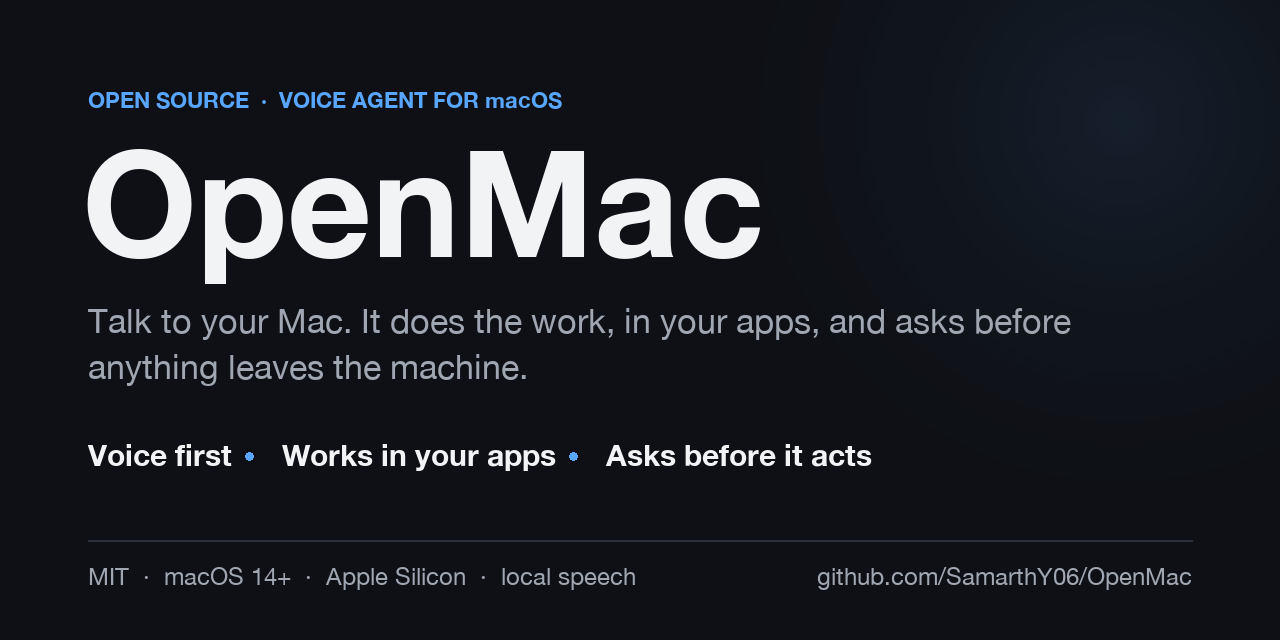
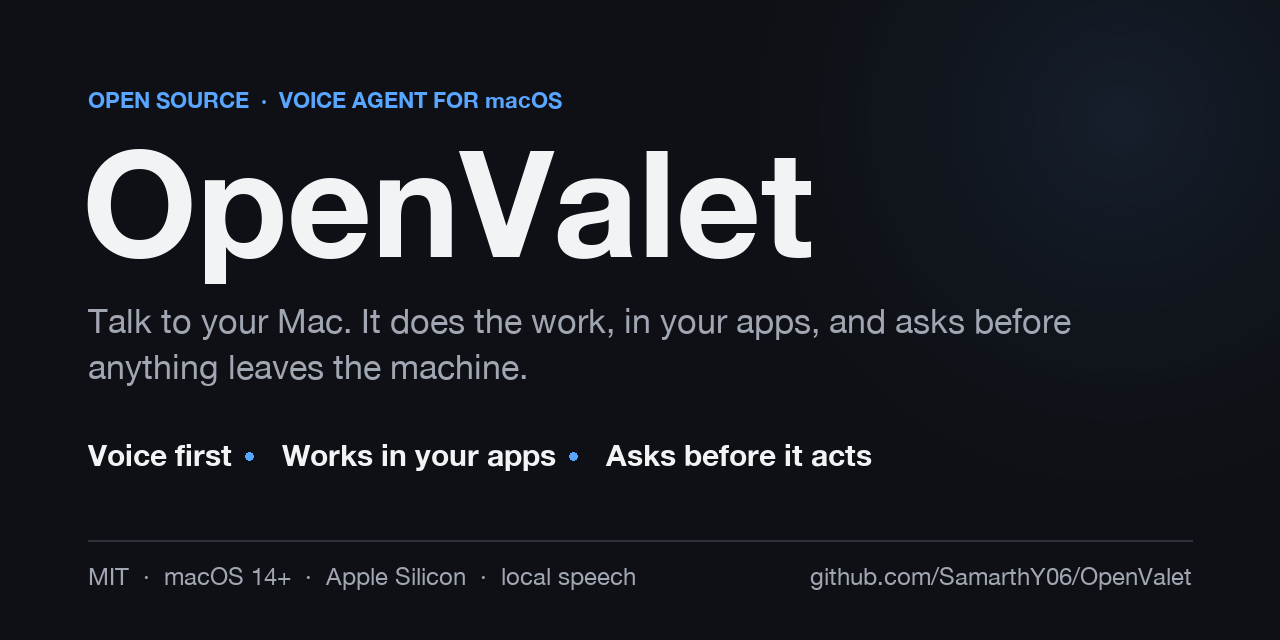
Rename to OpenValet
One agent across channels, so the name no longer says Mac. Repo, app
folder, installer paths and env vars, Go module path, docs and social
preview follow; bundle id, services and data paths are unchanged, and
the installer retires OpenMac.app and Mac.app.

Changed region(s): [[0.3438, 0.2188, 0.6562, 0.4062], [0.625, 0.875, 0.9375, 0.9375]]

diff --git a/app/Sources/MacApp/Onboarding.swift b/app/Sources/MacApp/Onboarding.swift
@@ -216,7 +216,7 @@ struct OnboardingView: View {
     /// Shown when the menu bar icon is hidden by the notch / menu-bar overflow (Builder C sets it).
     private var hiddenHint: some View {
         Label {
-            Text("Mac’s menu bar icon is hidden by the notch. Close a few menu bar apps, or open this window any time by double-clicking OpenMac.app.")
+            Text("Mac’s menu bar icon is hidden by the notch. Close a few menu bar apps, or open this window any time by double-clicking OpenValet.app.")
                 .font(.callout).fixedSize(horizontal: false, vertical: true)
         } icon: {
             Image(systemName: "eye.slash").foregroundStyle(.orange).accessibilityHidden(true)

diff --git a/daemon/tests/test_services_script.py b/daemon/tests/test_services_script.py
@@ -167,7 +167,7 @@ def test_a_failed_bridge_build_switches_nothing(w: World) -> None:
 
 
 def _fake_release(w: World, release: str, body: str, *, corrupt: bool = False) -> str:
-    """A file:// stand-in for github.com/<owner>/OpenMac/releases/download/v<release>/."""
+    """A file:// stand-in for github.com/<owner>/OpenValet/releases/download/v<release>/."""
     d = w.root / "rel" / f"v{release}"
     d.mkdir(parents=True)
     asset = d / "wa-bridge-darwin-arm64"
@@ -183,7 +183,7 @@ def _fake_release(w: World, release: str, body: str, *, corrupt: bool = False) -
 def test_without_go_the_bridge_is_downloaded_for_the_snapshots_version(w: World) -> None:
     sha = w.commit("v1", release="0.1.0")
     w.env["MAC_BRIDGE"] = "download"
-    w.env["OPENMAC_RELEASES_URL"] = _fake_release(w, "0.1.0", "#!/bin/sh\necho prebuilt 0.1.0\n")
+    w.env["OPENVALET_RELEASES_URL"] = _fake_release(w, "0.1.0", "#!/bin/sh\necho prebuilt 0.1.0\n")
     r = w.run("install")
     assert r.returncode == 0, r.stderr
     assert w.current() == sha and w.bridge() == "#!/bin/sh\necho prebuilt 0.1.0\n"
@@ -195,13 +195,13 @@ def test_a_bad_checksum_or_missing_release_switches_nothing(w: World) -> None:
     sha = w.commit("v1")
     assert w.run("install").returncode == 0  # built (MAC_BRIDGE=build)
     w.env["MAC_BRIDGE"] = "download"
-    w.env["OPENMAC_RELEASES_URL"] = _fake_release(w, "0.2.0", "tampered\n", corrupt=True)
+    w.env["OPENVALET_RELEASES_URL"] = _fake_release(w, "0.2.0", "tampered\n", corrupt=True)
     w.commit("v2", release="0.2.0")
     r = w.run("update")
     assert r.returncode == 1 and "checksum mismatch" in r.stderr and "Install Go" in r.stderr
     assert w.current() == sha and w.snapshots() == {sha} and w.bridge() == "bridge v1\n"
     assert not any(p.name.startswith(".new.") for p in w.releases.iterdir())
-    w.env["OPENMAC_RELEASES_URL"] = "file://" + str(w.root / "nowhere")
+    w.env["OPENVALET_RELEASES_URL"] = "file://" + str(w.root / "nowhere")
     r = w.run("update")
     assert r.returncode == 1 and w.current() == sha and w.snapshots() == {sha}
 

diff --git a/daemon/src/macd/brain/mac_tools.py b/daemon/src/macd/brain/mac_tools.py
@@ -43,7 +43,7 @@ NOTHING_TO_CONFIRM = ("Nothing to confirm yet: attempt the action first; the saf
 ALREADY_PENDING = ("A confirmation is already being asked, wait for that answer; do not ask again "
                    "and do not treat this as a decline.")
 AX_HELP = ("Accessibility permission is missing. Ask the user to open System Settings > Privacy & "
-           "Security > Accessibility and turn on OpenMac, then try again.")
+           "Security > Accessibility and turn on OpenValet, then try again.")
 
 # AG10: the model writes the confirmation; over-long text is a tool error it rewrites, never a cut.
 SUMMARY_MAX_CHARS = 200
@@ -631,7 +631,7 @@ class MacTools:
         try:
             res = _run(["screencapture", "-x", "-t", "png", str(path)], 15)
             if res.returncode != 0 or not path.exists() or path.stat().st_size == 0:
-                return _err("Screenshot failed. Screen Recording permission may be missing for OpenMac.app "
+                return _err("Screenshot failed. Screen Recording permission may be missing for OpenValet.app "
                             "(System Settings > Privacy & Security > Screen Recording).")
             _run(["sips", "-Z", "1600", str(path)], 15)
             data = base64.b64encode(path.read_bytes()).decode("ascii")

diff --git a/daemon/src/macd/doctor.py b/daemon/src/macd/doctor.py
@@ -187,7 +187,7 @@ def check_mic() -> Check:
     pcm = np.concatenate(frames)
     if float(np.max(np.abs(pcm))) == 0.0:
         return Check("fail", "microphone", "all-zero input (permission denied?)",
-                     "Grant Microphone access to OpenMac.app (TCC attributes this probe to the calling process).")
+                     "Grant Microphone access to OpenValet.app (TCC attributes this probe to the calling process).")
     return Check("ok", "microphone (this terminal)", f"{len(pcm)} samples, peak {float(np.max(np.abs(pcm))):.3f}")
 
 
@@ -224,7 +224,7 @@ def daemon_status(timeout: float = 3.0) -> dict | None:  # type: ignore[type-arg
 def check_daemon() -> tuple[Check, dict | None]:  # type: ignore[type-arg]
     st = daemon_status()
     if st is None:
-        return Check("warn", "daemon", f"not reachable at {config.CONTROL_SOCK}", "Start OpenMac.app or run `macd`."), None
+        return Check("warn", "daemon", f"not reachable at {config.CONTROL_SOCK}", "Start OpenValet.app or run `macd`."), None
     return Check("ok", "daemon", f"state {st.get('state')}, up {st.get('uptime_s')}s"), st
 
 

diff --git a/docs/media/make_social_preview.py b/docs/media/make_social_preview.py
@@ -78,7 +78,7 @@ def main() -> int:
 
     # Title.
     title_f = font(148, True)
-    draw.text((margin - 6, 112), "OpenMac", font=title_f, fill=INK)
+    draw.text((margin - 6, 112), "OpenValet", font=title_f, fill=INK)
 
     # Tagline, wrapped to the text column.
     tag_f = font(34, False)
@@ -102,7 +102,7 @@ def main() -> int:
     draw.line((margin, 540, W - margin, 540), fill=RULE, width=2)
     draw.text((margin, 562), FOOTER, font=font(24, False), fill=MUTED)
     repo_f = font(24, False)
-    repo = "github.com/SamarthY06/OpenMac"
+    repo = "github.com/SamarthY06/OpenValet"
     draw.text((W - margin - draw.textlength(repo, font=repo_f), 562), repo, font=repo_f, fill=MUTED)
 
     img.save(OUT, optimize=True)

diff --git a/daemon/src/macd/cli.py b/daemon/src/macd/cli.py
@@ -46,7 +46,7 @@ class ControlClient:
             s.connect(self.path)
         except (FileNotFoundError, ConnectionRefusedError) as e:
             s.close()
-            raise DaemonError("Mac isn't running. Open OpenMac.app (or run `macd` for headless use).") from e
+            raise DaemonError("Mac isn't running. Open OpenValet.app (or run `macd` for headless use).") from e
         self._sock = s
 
     def close(self) -> None:

diff --git a/bridges/whatsapp/internal/wa/client.go b/bridges/whatsapp/internal/wa/client.go
@@ -21,7 +21,7 @@ import (
 	"google.golang.org/protobuf/proto"
 	_ "modernc.org/sqlite" // pure-Go driver "sqlite", no cgo
 
-	"github.com/SamarthY06/OpenMac/bridges/whatsapp/internal/bridge"
+	"github.com/SamarthY06/OpenValet/bridges/whatsapp/internal/bridge"
 )
 
 // DeviceName is what the phone shows under Linked devices (W5.6).

diff --git a/bridges/whatsapp/main.go b/bridges/whatsapp/main.go
@@ -6,8 +6,8 @@ import (
 	"os"
 	"syscall"
 
-	"github.com/SamarthY06/OpenMac/bridges/whatsapp/internal/bridge"
-	"github.com/SamarthY06/OpenMac/bridges/whatsapp/internal/wa"
+	"github.com/SamarthY06/OpenValet/bridges/whatsapp/internal/bridge"
+	"github.com/SamarthY06/OpenValet/bridges/whatsapp/internal/wa"
 )
 
 func main() {

diff --git a/bridges/whatsapp/internal/wa/client_test.go b/bridges/whatsapp/internal/wa/client_test.go
@@ -13,7 +13,7 @@ import (
 	"go.mau.fi/whatsmeow/types/events"
 	"google.golang.org/protobuf/proto"
 
-	"github.com/SamarthY06/OpenMac/bridges/whatsapp/internal/bridge"
+	"github.com/SamarthY06/OpenValet/bridges/whatsapp/internal/bridge"
 )
 
 // These tests open a real (temp) SQLite store through whatsmeow but never

diff --git a/README.md b/README.md
@@ -1,11 +1,11 @@
-# OpenMac
+# OpenValet
 
 **Talk to your Mac. It does the work, in your apps, and asks before anything leaves the machine.**
 
 [![License: MIT](https://img.shields.io/badge/license-MIT-blue.svg)](LICENSE)
 [![macOS 14+](https://img.shields.io/badge/macOS-14%2B-black.svg)](#quickstart)
 [![Apple Silicon](https://img.shields.io/badge/Apple%20Silicon-arm64-black.svg)](#quickstart)
-[![CI](https://github.com/SamarthY06/OpenMac/actions/workflows/ci.yml/badge.svg)](https://github.com/SamarthY06/OpenMac/actions/workflows/ci.yml)
+[![CI](https://github.com/SamarthY06/OpenValet/actions/workflows/ci.yml/badge.svg)](https://github.com/SamarthY06/OpenValet/actions/workflows/ci.yml)
 
 Say *"Hey Mac, find three trending repos, put them in a note and send the list to my team on
 WhatsApp"* and it does it, across apps, while you sit back, and it asks before the send. The brain is Claude (the full Claude
@@ -14,7 +14,7 @@ recognition, end-of-turn detection and voice run locally on your Mac. It also an
 WhatsApp groups you add, and a deterministic safety gate blocks anything irreversible until you
 say yes.
 
-The project is OpenMac; the assistant answers to Mac.
+The project is OpenValet; the assistant answers to Mac.
 
 <!-- DEMO -->
 
@@ -25,18 +25,18 @@ installed and signed in (`claude`, then `/login`), and the Xcode Command Line To
 (`xcode-select --install`).
 
 ```bash
-curl -fsSL https://raw.githubusercontent.com/SamarthY06/OpenMac/main/install.sh | bash
+curl -fsSL https://raw.githubusercontent.com/SamarthY06/OpenValet/main/install.sh | bash
 ```
 
-This clones the repo into `~/OpenMac`, installs [uv](https://docs.astral.sh/uv/) if needed, sets
-up Python (about 600 MB), downloads the speech models (about 1 GB on disk), builds `OpenMac.app`
+This clones the repo into `~/OpenValet`, installs [uv](https://docs.astral.sh/uv/) if needed, sets
+up Python (about 600 MB), downloads the speech models (about 1 GB on disk), builds `OpenValet.app`
 and opens it. If Claude Code is missing, the installer offers to install it and sign you in. The
 **Meet Mac** window walks you through the permissions and Chrome pairing.
 
 Then say: **"Hey Mac, what can you do?"**
 
 Flags pass through as `| bash -s -- --yes --no-open`. If you would rather look first:
-`git clone https://github.com/SamarthY06/OpenMac.git ~/OpenMac && cd ~/OpenMac && ./install.sh`.
+`git clone https://github.com/SamarthY06/OpenValet.git ~/OpenValet && cd ~/OpenValet && ./install.sh`.
 
 ## What it can do
 
@@ -78,7 +78,7 @@ Menu bar: push-to-talk (⌥Space), Stop, Turn Off, Settings. Command line: `macc
 Mac links to your own WhatsApp as a linked device, like WhatsApp Web.
 
 ```bash
-cd ~/OpenMac
+cd ~/OpenValet
 scripts/mac whatsapp link          # scan the QR code with your phone, then pick groups
 scripts/services.sh install        # run it in the background, at every login
 scripts/mac chats add "Family"     # add another group later
@@ -111,7 +111,7 @@ only: no polls, no buttons.
 ## Updates
 
 ```bash
-cd ~/OpenMac
+cd ~/OpenValet
 git pull && ./install.sh           # the app and the Python environment (the one-liner also pulls)
 scripts/services.sh update         # the background WhatsApp services
 scripts/services.sh rollback       # back to the commit that ran before
@@ -139,12 +139,12 @@ a build to others, read those terms. An API key works too (`auth = "api_key"`, s
 ## Uninstall
 
 ```bash
-cd ~/OpenMac
+cd ~/OpenValet
 scripts/services.sh uninstall      # stop the background services
 ./install.sh --uninstall           # remove the app, settings and (if you say so) data
 ```
 
-Then delete `~/OpenMac`. To unlink WhatsApp, remove this Mac under Settings, Linked devices in WhatsApp on your phone.
+Then delete `~/OpenValet`. To unlink WhatsApp, remove this Mac under Settings, Linked devices in WhatsApp on your phone.
 
 ## More
 

diff --git a/docs/USAGE.md b/docs/USAGE.md
@@ -1,4 +1,4 @@
-# Using OpenMac: the details
+# Using OpenValet: the details
 
 The [README](../README.md) is the one-screen version, including the list of what Mac can do.
 This page has the rest. One extra: you can talk to your Mac from your phone over LiveKit
@@ -39,7 +39,7 @@ shows live status; here is what happens underneath.
 | "Hey Mac, go to sleep" | turns listening off (menu bar → Turn On to wake) |
 
 After Mac answers, you have a few seconds to follow up **without** the wake word.
-The app is `~/Applications/OpenMac.app`. Menu bar: Talk to Mac (⌥Space push-to-talk), Stop,
+The app is `~/Applications/OpenValet.app`. Menu bar: Talk to Mac (⌥Space push-to-talk), Stop,
 Turn Off/On, Mute, New Conversation, Talk from Phone…, Permissions…, Launch at Login, logs,
 settings.
 
@@ -171,7 +171,7 @@ Desktop or Documents). Allow it, or keep the repo outside those folders.
 Short version:
 
 ```
-OpenMac.app (Swift)  ── mic w/ echo cancellation ──►  macd (Python)
+OpenValet.app (Swift)  ── mic w/ echo cancellation ──►  macd (Python)
    menu bar, HUD, permissions,                        wake word → VAD → STT → Smart Turn → orchestrator
    supervises the daemon                          → Claude (Agent SDK, --chrome) → TTS
                  ◄── speech audio ────────────────  safety hook gates outward actions
@@ -187,7 +187,7 @@ destination, and the model never sees it, so prompt injection from a web page ca
 ## Development
 
 ```bash
-make app          # build + sign build/OpenMac.app
+make app          # build + sign build/OpenValet.app
 make test         # Swift + Python tests
 cd daemon && uv run pytest -q -m "not live and not models and not perf"   # fast unit suite
 cd daemon && uv run pytest -q -s -m perf                       # benchmarks, run alone (W6 latency gate)

diff --git a/CONTRIBUTING.md b/CONTRIBUTING.md
@@ -1,4 +1,4 @@
-# Contributing to OpenMac
+# Contributing to OpenValet
 
 Thanks for looking. This page covers how to set up a development checkout, where things live,
 and what a pull request needs. Issues and feature ideas go through the templates on GitHub.
@@ -11,9 +11,9 @@ signed in, the Xcode Command Line Tools, and [uv](https://docs.astral.sh/uv/). G
 (the Swift unit tests in `make test`) needs full Xcode, because XCTest ships with it.
 
 ```bash
-git clone https://github.com/SamarthY06/OpenMac.git ~/OpenMac && cd ~/OpenMac
+git clone https://github.com/SamarthY06/OpenValet.git ~/OpenValet && cd ~/OpenValet
 cd daemon && uv sync && cd ..       # Python 3.12 or 3.13, pinned by uv.lock
-make app                            # build + sign build/OpenMac.app
+make app                            # build + sign build/OpenValet.app
 make test                           # Swift unit tests + the fast Python suite
 ```
 
@@ -54,7 +54,7 @@ cd daemon && uv run macd --audio sounddevice
 
 This runs the daemon headless with the Python audio backend, without the app. Microphone and
 other permissions attribute to your terminal. With the app built, `make run` opens
-`build/OpenMac.app`, which starts the daemon itself. `macctl status` and `macctl logs` work
+`build/OpenValet.app`, which starts the daemon itself. `macctl status` and `macctl logs` work
 against either.
 
 For the WhatsApp side, `scripts/services.sh install` runs a frozen copy of your last commit,
